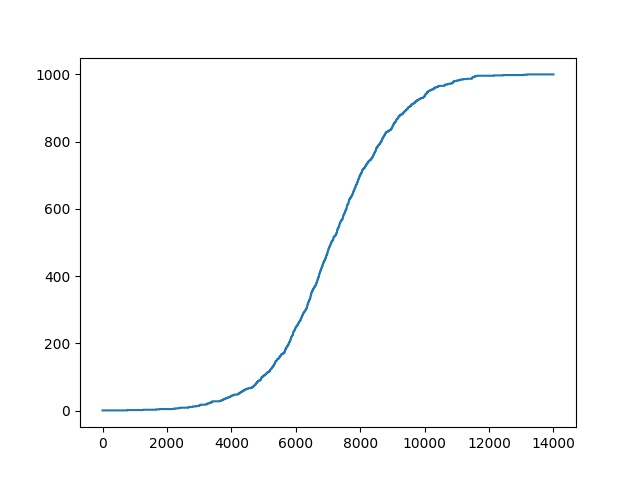
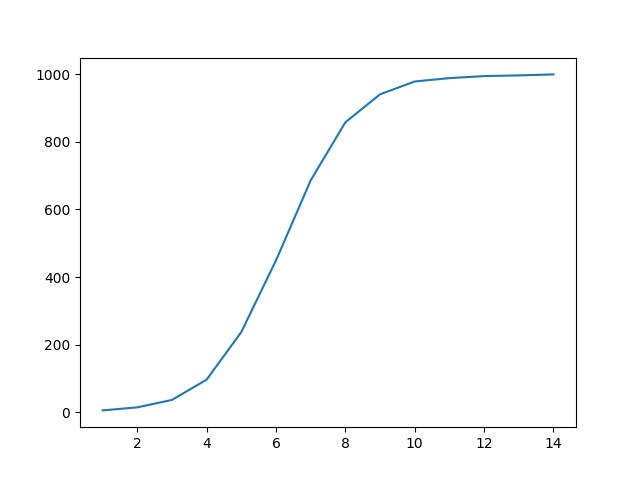
Corrected lab1;Initiated lab2; pending modules to be written

diff --git a/lab1/main.py b/lab1/main.py
@@ -1,7 +1,6 @@
 from random import randint
 import matplotlib.pyplot as plt
 import numpy as np
-import csv
 
 n = 1000
 nodes = [0] * n
@@ -15,32 +14,24 @@ x=1
 
 nodes[randint(0,n-1)] = 1
 
-while infectionDone == False:
-        for i in range(n):
-            if nodes[i] == 1:
-                target = randint(0,n-1)
-                if nodes[target] == 0:
-                    nodes[target] = 1
-                    infectedPerLoop+=1
-            currentInfected += infectedPerLoop
-            infectionRate.append (currentInfected)
-            curInf.append(currentInfected)
-            attempts.append(x)
-            x+=1
-            infectedPerLoop = 0
-
-        if currentInfected == n:infectionDone = True 
-            
+while not infectionDone:
+    for i in range(n):
+        if nodes[i] == 1:
+            target = randint(0,n-1)
+            if nodes[target] == 0:
+                nodes[target] = 1
+                infectedPerLoop+=1
+        currentInfected += infectedPerLoop
+        curInf.append(currentInfected)
+        infectedPerLoop = 0
+    infectionRate.append (currentInfected)
+    attempts.append(x)
+    x+=1
+    if currentInfected == n:infectionDone = True 
 
 xpoints = np.array(attempts)
 ypoints = np.array(infectionRate)
-
-plt.plot(xpoints,ypoints)
-plt.savefig("infectionrate.jpg")
-plt.show()
-
-xpoints = np.array(attempts)
-ypoints = np.array(currentInfected)
-plt.plot(xpoints,ypoints)
-plt.savefig("infectionrate.jpg")
+print(len(attempts),len(infectionRate))
+plt.plot(xpoints, ypoints)
+plt.savefig("lab1/infectionrate.jpg")
 plt.show()

diff --git a/lab2/main.py b/lab2/main.py
@@ -1,0 +1,40 @@
+from random import randint
+import matplotlib.pyplot as plt
+import numpy as np
+
+n = 1000
+nodes = [0] * n
+infectionDone = False
+currentInfected = 1
+infectedPerLoop = 0
+infectionRate = []
+curInf = []
+attempts = []
+x=1
+
+nodes[randint(0,n-1)] = 1
+
+while not infectionDone:
+    for i in range(n):
+        for j in range(3):
+            if nodes[i] == 1:
+                target = randint(0,n-1)
+                if nodes[target] == 0:
+                    nodes[target] = 1
+                    infectedPerLoop+=1
+            currentInfected += infectedPerLoop
+            curInf.append(currentInfected)
+            infectedPerLoop = 0
+    infectionRate.append (currentInfected)
+    attempts.append(x)
+    x+=1
+    if currentInfected == n:infectionDone = True 
+
+xpoints = np.array(attempts)
+ypoints = np.array(infectionRate)
+print(len(attempts),len(infectionRate))
+plt.plot(xpoints, ypoints)
+plt.savefig("lab2/infectionrate.jpg")
+plt.show()
+
+#Επιπλέον να μολύνει υπολογιστές με βαση την πιθανότητα 10 ή 50% να μολύνει έναν υπολογιστή, όλα σε ένα πλοτ
